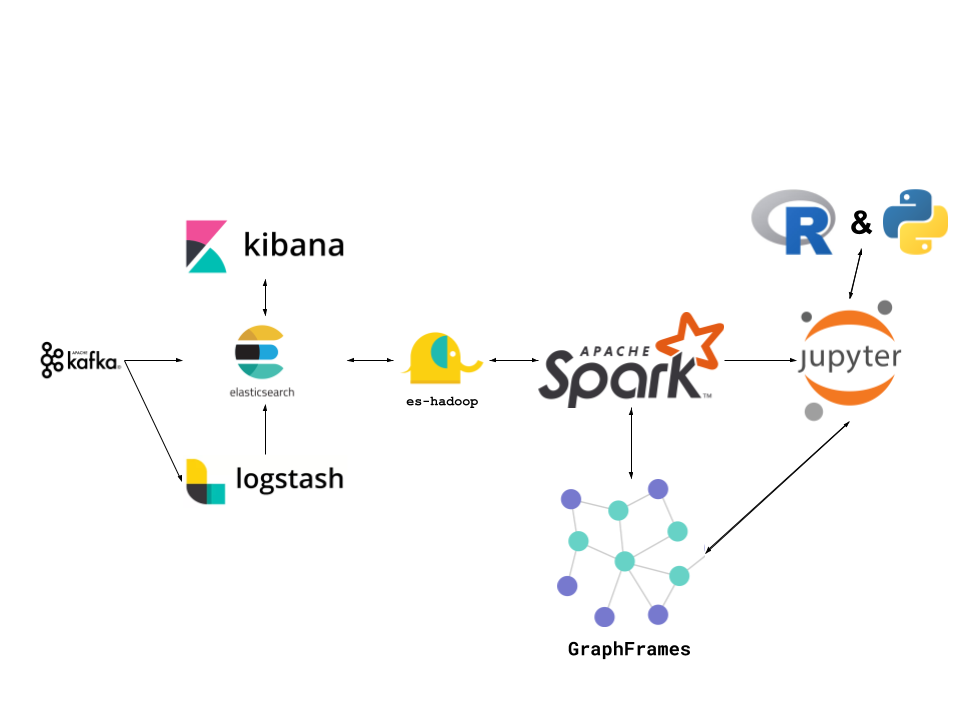
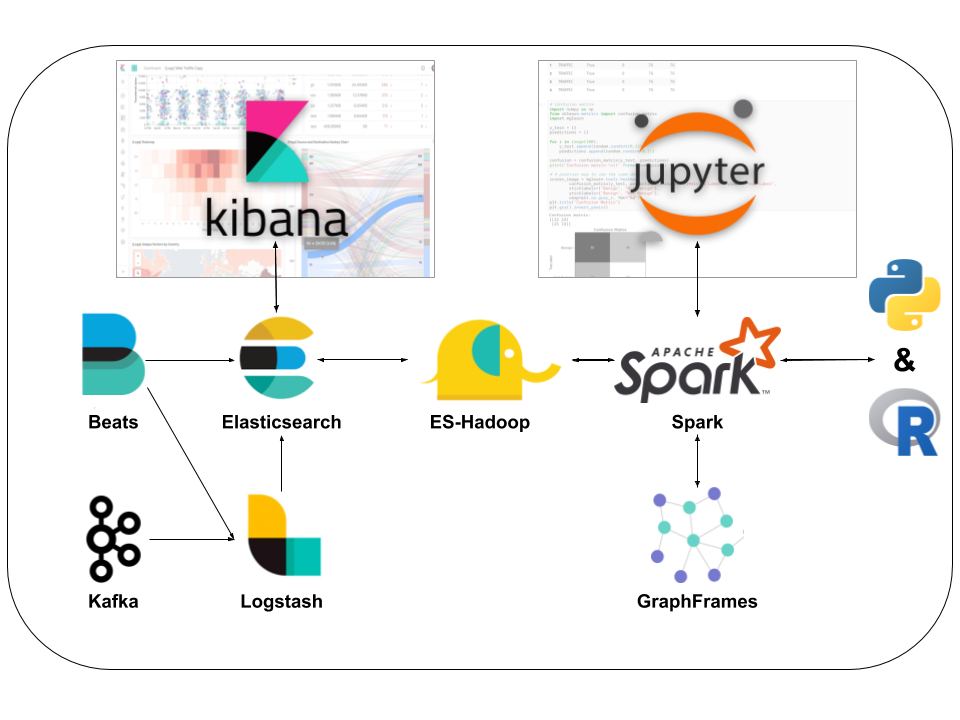
updated README

diff --git a/README.md b/README.md
@@ -1,28 +1,31 @@
 # RELK
-The Research Elastic Stack Package
+The Research Elastic Stack (ELK) 
 
 ![RELK Overview](resources/images/RELK_Overview.png)
 
 ## Goal
-To design an Elastic stack that includes Spark out of the box for in-depth data analysis and computation.
+To make it just as easy to analyze data as it is to collect it. 
 
 ## Features
-* **Kafka**: A distributed publish-subscribe messaging system that is designed to be fast, scalable, fault-tolerant, and durable.
-* **Elasticsearch**: A highly scalable open-source full-text search and analytics engine.
-* **Logstash**: A data collection engine with real-time pipelining capabilities.
-* **Kibana**: An open source analytics and visualization platform designed to work with Elasticsearch.
-* **ES-Hadoop**: An open-source, stand-alone, self-contained, small library that allows Hadoop jobs (whether using Map/Reduce or libraries built upon it such as Hive, Pig or Cascading or new upcoming libraries like Apache Spark ) to interact with Elasticsearch.
-* **Spark**: A fast and general-purpose cluster computing system. It provides high-level APIs in Java, Scala, Python and R, and an optimized engine that supports general execution graphs.
+* **Kafka**: A distributed event streaming platform capable of handling trillions of events a day
+* **FileBeat**: A lightweight single-purpose data shipper from Elastic
+* **Elasticsearch**: A highly scalable search and analytics engine
+* **Logstash**: A dynamic data collection pipeline with an extensible plugin ecosystem.
+* **Kibana**: An analytics and visualization platform designed to work with Elasticsearch.
+* **ES-Hadoop**: A library that allows Hadoop jobs (& therefore Spark) to interact with Elasticsearch.
+* **Spark**: A fast and general-purpose cluster computing system. It provides high-level APIs in Scala, Python and R.
 * **GraphFrames**: A package for Apache Spark which provides DataFrame-based Graphs.
-* **Jupyter Notebook**: An open-source web application that allows you to create and share documents that contain live code, equations, visualizations and narrative text.
+* **Jupyter Notebook**: A web application that allows you to create interactive notebooks. 
 
 ## Preparation
 The only major modifications needed are:
 1. Remove and replace the elasticsearch index templates
-    * Found in RELK/elasticsearch/output_templates
+    * Located in `RELK/elasticsearch/output_templates`
 
 2. Remove and replace the logstash conf files
-    * Found in RELK/logstash/pipelines
+    * Located in `RELK/logstash/pipelines`
+
+3. Either add the files to analyze into `RELK/filebeat/input_files` or configure Kafka/FileBeat to ingest files for your use-case.
 
 
 ## Running
@@ -33,14 +36,15 @@ If you'd like to have the comtainers running in the background:
 
 
 ## Other Notes
-* Kafka uses port 9092
-* Kibana uses 9601
-* Jupyter uses 8888
-* By default, Jupyter notebooks password is 'research'. This can be changed in the docker-compose file
+* Kafka listens on port 9092
+* Kibana uses 9601 (Access it via https://localhost:9601)
+* Jupyter uses 8888 (Access it via https://localhost:8888)
+  *  By default, Jupyter notebooks password is 'research'. This can be changed in the docker-compose file
 
 ## TODO
 * Password protect ES/Kibana
 
 ## Worthy mentions
 * The inspiration: [HELK -- The Hunting Elastic Stack](https://github.com/Cyb3rWard0g/HELK)
-* [Jupyer/Docker Stacks](https://github.com/jupyter/docker-stacks). An excellent repository with a ton of plug-and-play notebooks. 
+* [Jupyer/Docker Stacks](https://github.com/jupyter/docker-stacks). An excellent repository with a ton of plug-and-play notebooks. It is incredible how easy it is to set up.
+* [Docker @ Elastic](https://www.docker.elastic.co/): Plug-and-play docker containers for Beats, Logstash, Elasticsearch, and Kibana.
